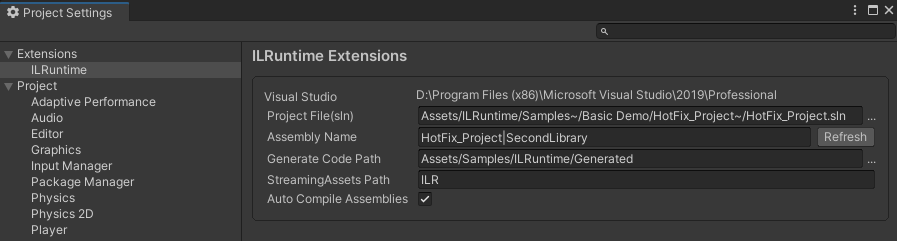
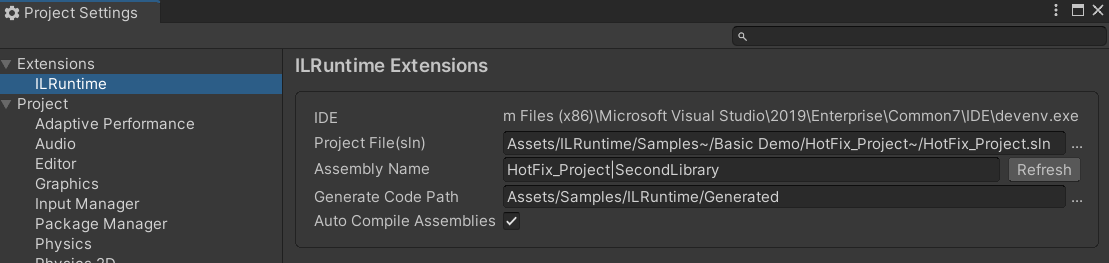
0

diff --git a/ILRuntimeDemo/Assets/ILRuntime.Extensions/Editor/ILRProjectHelper.cs b/ILRuntimeDemo/Assets/ILRuntime.Extensions/Editor/ILRProjectHelper.cs
@@ -74,7 +74,7 @@ namespace UnityEditor.ILRuntime.Extensions
         {
             try
             {
-                return vsSolution != null && EditorILRSettings.AutoBuild && !string.IsNullOrEmpty(VSHomePath);
+                return vsSolution != null && EditorILRSettings.AutoBuild && !string.IsNullOrEmpty(VSDevenvPath);
             }
             catch
             {
@@ -220,40 +220,58 @@ namespace UnityEditor.ILRuntime.Extensions
             EditorUtility.DisplayProgressBar("Compile ILR Assembly", "Compiling", 0f);
             try
             {
-                StringBuilder builder = new StringBuilder();
+                StringBuilder log = new StringBuilder();
                 lock (lockObj)
                 {
                     sourceCodeChanged = false;
                 }
-                LastCompileHash = CalculateSourceCodeHash();
-
                 string fullProjPath = Path.GetFullPath(EditorILRSettings.ProjectPath);
                 using (Process proc = new Process())
                 {
+                    string projDir = Path.GetDirectoryName(fullProjPath);
+                    string logFile = Path.GetFullPath(Path.Combine(projDir, ".vs/build.log"));
+                    if (File.Exists(logFile))
+                    {
+                        File.Delete(logFile);
+                    }
+
                     proc.StartInfo = new ProcessStartInfo()
                     {
-                        WorkingDirectory = Path.GetDirectoryName(fullProjPath),
+                        WorkingDirectory = projDir,
                         FileName = VSDevenvPath,
-                        Arguments = $"\"{fullProjPath}\"  /Build {(EditorILRSettings.IsDebug ? "Debug" : "Release")}",
+                        Arguments = $"\"{fullProjPath}\"  /Build {(EditorILRSettings.IsDebug ? "Debug" : "Release")} /out \"{logFile}\"",
                         //FileName = MSBuildPath,
                         //Arguments = $"\"{fullProjPath}\"  /property:Configuration={(EditorILRSettings.IsDebug ? "Debug" : "Release")}",
                         RedirectStandardError = true,
+                        RedirectStandardOutput = true,
                         UseShellExecute = false,
                         CreateNoWindow = true,
                         WindowStyle = ProcessWindowStyle.Hidden,
                     };
                     proc.ErrorDataReceived += (sender, e) =>
                     {
-                        builder.AppendLine(e.Data);
+                        log.AppendLine(e.Data);
+                    };
+                    proc.OutputDataReceived += (sender, e) =>
+                    {
+                        log.AppendLine(e.Data);
                     };
                     proc.Start();
                     proc.WaitForExit();
-                    if (builder.Length > 0 || proc.ExitCode != 0)
+                    if (log.Length > 0 || proc.ExitCode != 0)
                     {
-                        throw new Exception($"Build project error. errorCode: {proc.ExitCode}\narguments: {proc.StartInfo.Arguments}\n{builder.ToString()}");
+                        if (File.Exists(logFile))
+                        {
+                            log.AppendLine()
+                                .AppendLine(File.ReadAllText(logFile));
+                        } 
+                        throw new Exception($"Build project error. errorCode: {proc.ExitCode}\narguments: {proc.StartInfo.Arguments}\n{log.ToString()}");
                     }
                 }
-
+                if (log.Length == 0)
+                {
+                    LastCompileHash = CalculateSourceCodeHash();
+                }
             }
             catch (Exception ex)
             {
@@ -302,7 +320,8 @@ namespace UnityEditor.ILRuntime.Extensions
             {
                 if (vsHomePath == null)
                 {
-                    string vsHome = Environment.GetEnvironmentVariable("VisualStudio");
+                    string vsHome;
+                    vsHome = Environment.GetEnvironmentVariable("VisualStudio");
                     if (string.IsNullOrEmpty(vsHome))
                         throw new Exception("Not found environment variable 'VisualStudio'");
                     vsHomePath = vsHome;
@@ -342,17 +361,22 @@ namespace UnityEditor.ILRuntime.Extensions
             {
                 if (vsDevenvPath == null)
                 {
-                    if (!string.IsNullOrEmpty(ExternalScriptEditorPath))
-                    {
-                        if (ExternalScriptEditorPath.EndsWith("devenv.exe"))
-                        {
-                            vsDevenvPath = ExternalScriptEditorPath;
-                        }
-                    }
+                    vsDevenvPath = Environment.GetEnvironmentVariable("ILRuntime_ScriptEditor");
+
                     if (string.IsNullOrEmpty(vsDevenvPath))
                     {
-                        if (!string.IsNullOrEmpty(VSHomePath))
-                            vsDevenvPath = Path.Combine(VSHomePath, @"Common7\IDE\devenv.exe");
+                        if (!string.IsNullOrEmpty(ExternalScriptEditorPath))
+                        {
+                            if (ExternalScriptEditorPath.EndsWith("devenv.exe"))
+                            {
+                                vsDevenvPath = ExternalScriptEditorPath;
+                            }
+                        }
+                        if (string.IsNullOrEmpty(vsDevenvPath))
+                        {
+                            if (!string.IsNullOrEmpty(VSHomePath))
+                                vsDevenvPath = Path.Combine(VSHomePath, @"Common7\IDE\devenv.exe");
+                        }
                     }
                     if (vsDevenvPath == null)
                     {
@@ -363,26 +387,26 @@ namespace UnityEditor.ILRuntime.Extensions
             }
         }
 
-        public static string MSBuildPath
-        {
-            get
-            {
-                if (msBuildPath == null)
-                {
-                    if (!string.IsNullOrEmpty(VSHomePath))
-                        msBuildPath = Path.Combine(VSHomePath, @"MSBuild\Current\Bin\MSBuild.exe");
-                    else
-                        msBuildPath = string.Empty;
-                }
-                return msBuildPath;
-            }
-        }
+        //public static string MSBuildPath
+        //{
+        //    get
+        //    {
+        //        if (msBuildPath == null)
+        //        {
+        //            if (!string.IsNullOrEmpty(VSHomePath))
+        //                msBuildPath = Path.Combine(VSHomePath, @"MSBuild\Current\Bin\MSBuild.exe");
+        //            else
+        //                msBuildPath = string.Empty;
+        //        }
+        //        return msBuildPath;
+        //    }
+        //}
 
 
         [InitializeOnLoad]
         public class EditorWindowFocusUtility
         {
-            public static event Action<bool> OnUnityEditorFocus = (focus) => { };
+            public static event Action<bool> OnUnityEditorFocus;
             private static bool _appFocused;
             static EditorWindowFocusUtility()
             {
@@ -391,6 +415,9 @@ namespace UnityEditor.ILRuntime.Extensions
 
             private static void Update()
             {
+                if (OnUnityEditorFocus == null)
+                    return;
+
                 if (!_appFocused && UnityEditorInternal.InternalEditorUtility.isApplicationActive)
                 {
                     _appFocused = UnityEditorInternal.InternalEditorUtility.isApplicationActive;

diff --git a/ILRuntimeDemo/Assets/ILRuntime.Extensions/Editor/Settings/EditorILRSettingsProvider.cs b/ILRuntimeDemo/Assets/ILRuntime.Extensions/Editor/Settings/EditorILRSettingsProvider.cs
@@ -61,11 +61,8 @@ namespace UnityEditor.ILRuntime.Extensions
             }
             else
             {
-                if (string.IsNullOrEmpty(ILRProjectHelper.VSHomePath))
-                {
-                    lbl.text = "Error: Require set 'VisualStudio' environment variable";
-                    lbl.parent.Q<Label>(null, "label").AddToClassList("error");
-                }
+                lbl.text = "Error: Require set 'ILRuntime_ScriptEditor' environment variable";
+                lbl.parent.Q<Label>(null, "label").AddToClassList("error");
             }
 
             var txtProjPathField = settingsRoot.Q<TextField>("proj_path");

diff --git a/ILRuntimeDemo/Assets/ILRuntime.Extensions/Editor/Settings/EditorILRSettings.cs b/ILRuntimeDemo/Assets/ILRuntime.Extensions/Editor/Settings/EditorILRSettings.cs
@@ -58,8 +58,9 @@ namespace UnityEditor.ILRuntime.Extensions
         private bool isDebug = true;
         public static bool IsDebug
         {
-            get => Settings.isDebug;
-            set => Provider.SetProperty(nameof(IsDebug), ref Settings.isDebug, value);
+            get => EditorUserBuildSettings.development;
+            //get => Settings.isDebug;
+            //set => Provider.SetProperty(nameof(IsDebug), ref Settings.isDebug, value);
         }
 
 

diff --git a/ILRuntimeDemo/Assets/ILRuntime.Extensions/README.md b/ILRuntimeDemo/Assets/ILRuntime.Extensions/README.md
@@ -10,11 +10,9 @@
 
 ![Settings](Doc~/Images/Settings.png)
 
+- IDE
 
-
-- Visual Studio
-
-  VS 的安装目录，系统添加 `VisualStudio` 环境变量
+  VS 的安装目录，系统添加 `ILRuntime_ScriptEditor` 环境变量，环境变量修改后需要退出 `Unity Hub` 才生效，区分编辑器 ILR 使用 VS2019，Unity 工程使用其它编辑器 VS2022 或 Rider
 
 - Project File
 
